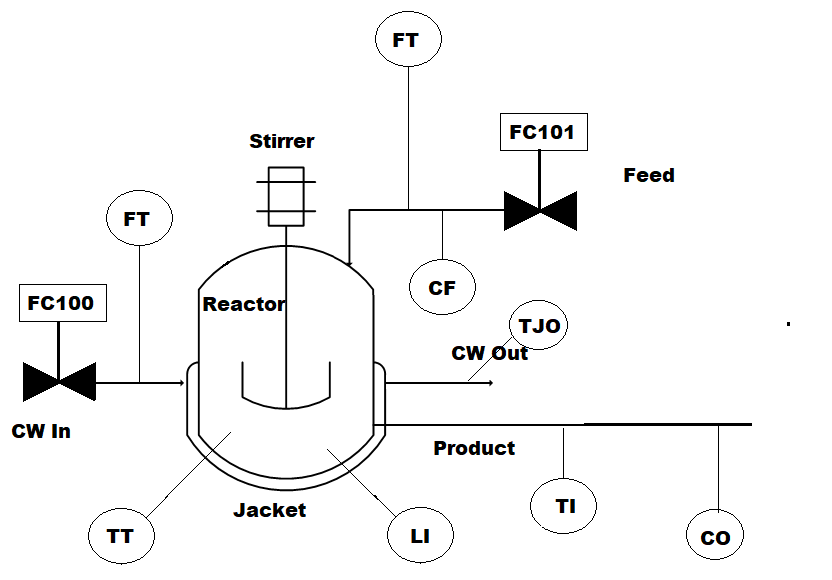
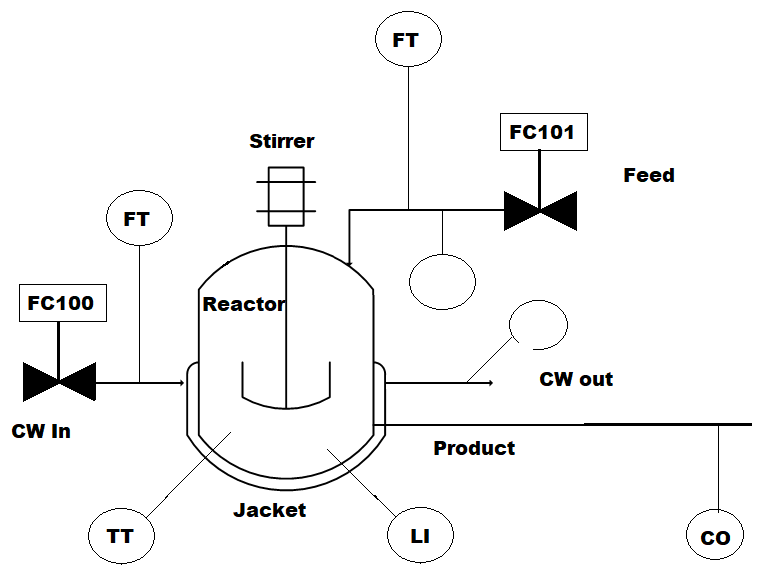
added buttons for sensors, added help dropdown, minor commenting

diff --git a/tkinter_gui.py b/tkinter_gui.py
@@ -12,26 +12,44 @@ from tkinter import ttk
 import multiprocessing as mp
 from matplotlib.figure import Figure
 from matplotlib.backends.backend_tkagg import FigureCanvasTkAgg, NavigationToolbar2Tk
+import webbrowser
 
-df = pd.DataFrame(columns=['flow101', 'flow100', 'cooling_temp', 'reactor_temp', 'feed_temp', 'exit_temp', 'level', 'exit_composition', 'feed_composition'])
-
+# Setting up dataframes for simulation
+simulation_data = pd.DataFrame(columns=['flow101', 'flow100', 'cooling_temp', 'reactor_temp', 'feed_temp', 'exit_temp', 'level', 'exit_composition', 'feed_composition'])
 history_df = pd.DataFrame(columns=['time', 'bulk_a_comp', 'reactor_temp', 'jacket_temp_out'])
 
-# Create tkinter window
+
+
+
+# Base GUI Tkinter Setup
+# TODO: Reorganize this into a application that is initialized on startup
 window = tk.Tk()
-# window.geometry("800x700")
 window.resizable(False, False)
 
+# TODO: Add a splash/startup screen for setting initial parameters as well as loading older simulations or settings.
+
+# Creates the Taskbar at the top of the simulation window
 taskbar = tk.Frame(window, height=40)
 taskbar.grid(sticky="w")
 
+# Settings a boolean that controls the dynamic simulation
+# TODO: Reorganize simulation runs into classes that have the parameters a properties
 stopped = True
+
 def stop_simulation():
+    """
+    This function stops the simulation of the CSTR in dynamic mode.
+    :return:
+    """
     global stopped
     stopped = True
     print("Simulation Stopped")
 
 def start_timer():
+    """
+    This function starts the simulation of the CSTR in dynamic mode. It also resets the time.
+    :return:
+    """
     global stopped
     stopped = False
 
@@ -39,18 +57,31 @@ def start_timer():
     run_simulation()
 
 def save_as():
+    """
+    This function saves the simulation data to a CSV file.
+    :return:
+    """
     global history_df
     filename = filedialog.asksaveasfilename(defaultextension=".csv")
     if filename:
         history_df.to_csv(filename, index=False)
 
 def show_menu(event):
+    """
+    This function shows the file menu when the file button is clicked.
+    :param event:
+    :return:
+    """
     file_menu.post(event.x_root, event.y_root)
 
 file_menu = tk.Menu(window, tearoff=0)
 file_menu.add_command(label="Save As", command=save_as)
 
 def open_disturbances_window():
+    """
+    This function opens the disturbances window.
+    :return:
+    """
     disturbances_window = tk.Toplevel(window)
     disturbances_window.title("Disturbances")
     disturbances_window.geometry("400x400")
@@ -58,8 +89,23 @@ def open_disturbances_window():
 
 file_menu.add_command(label="Disturbances", command=open_disturbances_window)
 
+def open_github():
+    webbrowser.open('https://github.com/pvalle6/CSTR')
+
+def open_linkedin():
+    webbrowser.open('https://www.linkedin.com/in/peter-v-334609211')
+
+def open_pse():
+    webbrowser.open('https://pse.che.lsu.edu/')
 def run_simulation():
+    """
+    This function runs the simulation of the CSTR in dynamic mode.
+
+    :return:
+    """
     global history_df
+    global simulation_data
+
     start_time = time.time()
     time_now = update_time()
     # history_df = pd.DataFrame(columns=['time', 'bulk_a_comp', 'reactor_temp', 'jacket_temp_out'])
@@ -80,8 +126,14 @@ def run_simulation():
                                          history_df['jacket_temp_out'].iloc[-1]], args=(feed_flow, jack_feed_flow))
         history_df = pd.concat([history_df, pd.DataFrame(
             {"time": time_now, 'bulk_a_comp': sol.y[0], "reactor_temp": sol.y[1], "jacket_temp_out": sol.y[2]})])
+
+        simulation_data = pd.concat([simulation_data, pd.DataFrame(
+            {"flow101": flow101_indicator.get(), "flow100": flow100_indicator.get(), "cooling_temp": cw_temp_indicator.get(),
+             "reactor_temp": reactor_temp_indicator.get(), "feed_temp": feed_temp_indicator.get(), "exit_temp": exit_temp_indicator.get(),
+             "level": level_indicator.get(), "exit_composition": exit_comp_indicator.get(), "feed_composition": feed_comp_indicator.get()}, index=[0])])
+
         previous_time_step += 1
-        print(history_df.tail(1))
+        # print(history_df.tail(1))
 
         reactor_temp_indicator.set(str(round(sol.y[1][-1], 2)) + " K")
         cool_temp_out_indicator.set(str(round(sol.y[2][-1], 2)) + " K")
@@ -92,6 +144,10 @@ def run_simulation():
             break
 
 def update_time():
+    """
+    This function updates the time in the GUI.
+    :return:
+    """
     elapsed_time = str(int(time.time() - start_time))  # Get the number of seconds since the start
     clock = "Time Elapsed: " + elapsed_time + " seconds"
     time_var.set(clock)  # Update the time_var with the new time
@@ -100,9 +156,11 @@ def update_time():
 
     return elapsed_time
 
-
 def open_f101_valve():
-
+    """
+    This function opens the FC101 Valve Control Window.
+    :return:
+    """
     def set_flow_rate():
         global feed_flow
         flow_rate = fc101_flow_entry.get()
@@ -128,7 +186,10 @@ def open_f101_valve():
     fc101_set_button.grid(row=1, column=0, columnspan=2)
 
 def open_f100_valve():
-
+    """
+    This function opens the FC100 Valve Control Window.
+    :return:
+    """
     def set_flow_rate():
         global jack_feed_flow
         flow_rate = fc100_flow_entry.get()
@@ -154,6 +215,7 @@ def open_f100_valve():
     fc100_set_button.grid(row=1, column=0, columnspan=2)
 
 
+# Here is many of the buttons are initialized and placed on the taskbar
 file_button = tk.Button(taskbar, text="File", width=8, height=2, bg="white", fg="black", font="Arial 12 bold",)
 file_button.grid(row=0, column=0, sticky="w")
 
@@ -176,35 +238,36 @@ stop_button.grid(row=0, column=3, sticky="w")
 help_button = tk.Button(taskbar, text="Help", width=8, height=2, bg="white", fg="black", font="Arial 12 bold")
 help_button.grid(row=0, column=4, sticky="w")
 
+help_menu = tk.Menu(window, tearoff=0)
+help_menu.add_command(label="GitHub", command=open_github)
+help_menu.add_command(label="Linkedin", command=open_linkedin)
+help_menu.add_command(label="PSE", command=open_pse)
 
+def show_help_menu(event):
+    help_menu.post(event.x_root, event.y_root)
+
+help_button.bind("<Button-1>", show_help_menu)
 # title = tk.Label(taskbar, text="CSTR Simulation", font="Arial 16 bold", fg="black")
 # title.grid(row=1)
 
+# Here is where the Process Simulation Window is initialized
 frame = tk.Frame(window)
 frame.grid()
-
+# Setting up GUI Images
+circle_image = tk.PhotoImage(file="reactor_image/circle.png")
+img = Image.open("reactor_image/test_2.png")
+photo = ImageTk.PhotoImage(img)
+diagram = tk.Label(frame, image=photo)
+diagram.grid()
 start_time = time.time()  # Get the time at the start of the program
-
 time_var = tk.StringVar()  # Create a StringVar to hold the time
-
-# Create a Label to display the time
 time_label = tk.Label(taskbar, textvariable=time_var)
 time_label.grid(row=0,column=5)  # Adjust the position as needed
 
-
-
-# Setting up the Control Interface
-img = Image.open("reactor_image/test_2.png")
-
-photo = ImageTk.PhotoImage(img)
-
-diagram = tk.Label(frame, image=photo)
-diagram.grid()
-
+# Setting up the Control Interface for the CSTR
 fc100_button = tk.Button(frame, text="FC100", width=8, height=2, bg="white", fg="black", font="Arial 12 bold",
                     relief="raised", borderwidth=2, command=open_f100_valve)
 fc100_button.place(x=20, y=285)
-
 fc101_button = tk.Button(frame, text="FC101", width=8, height=2, bg="white", fg="black", font="Arial 12 bold",
                     relief="raised", borderwidth=2, command=open_f101_valve)
 fc101_button.place(x=500, y=115)
@@ -212,6 +275,55 @@ fc101_button.place(x=500, y=115)
 # fc102_button = tk.Button(frame, text="FC102", width=8, height=2, bg="white", fg="black", font="Arial 12 bold",
 #                     relief="raised", borderwidth=2)
 # fc102_button.place(x=592, y=325)
+
+# Here is where many of the sensor display and GUI elements are initialized
+def on_feed_comp_sensor(x):
+    print("Opening Feed Composition Sensor Window")
+
+feed_c_button = tk.Button(frame, image=circle_image, text="FC", compound="center", bg="white",
+                          fg="black", font="Arial 12 bold", border=0, relief="raised")
+feed_c_button.config(command=lambda: on_feed_comp_sensor(1))
+feed_c_button.place(x=410, y=255)
+
+def on_feed_temp_sensor(x):
+    print("Opening Feed Temperature Sensor Window")
+
+feed_t_button = tk.Button(frame, image=circle_image, text="FT", compound="center", bg="white",
+                          fg="black", font="Arial 12 bold", border=0, relief="raised")
+feed_t_button.config(command=lambda: on_feed_temp_sensor(1))
+feed_t_button.place(x=375, y=12)
+
+def on_coolant_temp_sensor(x):
+    print("Opening Coolant Temperature Sensor Window")
+
+cool_t_button = tk.Button(frame, image=circle_image, text="CT", compound="center", bg="white",
+                          fg="black", font="Arial 12 bold", border=0, relief="raised")
+cool_t_button.config(command=lambda: on_coolant_temp_sensor(1))
+cool_t_button.place(x=105, y=192)
+
+def on_reactor_temp_sensor(x):
+    print("Opening Reactor Temperature Sensor Window")
+
+reactor_t_button = tk.Button(frame, image=circle_image, text="RT", compound="center", bg="white",
+                          fg="black", font="Arial 12 bold", border=0, relief="raised")
+reactor_t_button.config(command=lambda: on_reactor_temp_sensor(1))
+reactor_t_button.place(x=90, y=510)
+
+def on_jacket_temp_sensor(x):
+    print("Opening Jacket Temperature Sensor Window")
+
+jacket_t_button = tk.Button(frame, image=circle_image, text="TC Out", compound="center", bg="white",
+                          fg="black", font="Arial 12 bold", border=0, relief="raised")
+jacket_t_button.config(command=lambda: on_jacket_temp_sensor(1))
+jacket_t_button.place(x=505, y=300)
+
+def on_exit_comp_sensor(x):
+    print("Opening Exit Composition Sensor Window")
+
+exit_c_button = tk.Button(frame, image=circle_image, text="Cout", compound="center", bg="white",
+                          fg="black", font="Arial 12 bold", border=0, relief="raised")
+exit_c_button.config(command=lambda: on_exit_comp_sensor(1))
+exit_c_button.place(x=680, y=510)
 
 flow100_indicator = tk.StringVar()
 flow100_indicator.set("0")
@@ -231,12 +343,12 @@ cooling_temp_label.place(x=180, y=210)
 reactor_temp_indicator = tk.StringVar()
 reactor_temp_indicator.set("0")
 reactor_temp_label = tk.Label(frame, textvariable=reactor_temp_indicator, font="Arial 12 bold")
-reactor_temp_label.place(x=70, y=500)
+reactor_temp_label.place(x=70, y=487)
 
 feed_temp_indicator = tk.StringVar()
 feed_temp_indicator.set("0")
 feed_temp_label = tk.Label(frame, textvariable=feed_temp_indicator, font="Arial 12 bold")
-feed_temp_label.place(x=450, y=20)
+feed_temp_label.place(x=460, y=20)
 
 exit_temp_indicator = tk.StringVar()
 exit_temp_indicator.set("0")
@@ -251,7 +363,7 @@ level_label.place(x=450, y=500)
 exit_comp_indicator = tk.StringVar()
 exit_comp_indicator.set("0")
 exit_composition_label = tk.Label(frame, textvariable=exit_comp_indicator, font="Arial 12 bold")
-exit_composition_label.place(x=670, y=500)
+exit_composition_label.place(x=670, y=470)
 
 feed_comp_indicator = tk.StringVar()
 feed_comp_indicator.set("0")
@@ -262,11 +374,6 @@ cool_temp_out_indicator = tk.StringVar()
 cool_temp_out_indicator.set("0")
 cool_temp_out_label = tk.Label(frame, textvariable=cool_temp_out_indicator, font="Arial 12 bold")
 cool_temp_out_label.place(x=550, y=270)
-
-# Tank Specifications
-# tank_diameter = 0.5 # m
-# tank_height = 1 # m
-# tank_volume = math.pi * (tank_diameter/2)**2 * tank_height
 
 # Feed Specifications
 feed_comp_a = 0 # mol / m^3
@@ -321,13 +428,13 @@ def system_of_equations(t,y, feed_flow, jack_feed_flow):
 
     return [dCadt, dTdt, dTjdt]
 
+# Setting up the initial values for the simulation
 flow101_indicator.set(0.1)
 flow100_indicator.set(0.1)
 cw_temp_indicator.set(300)
 feed_temp_indicator.set(300)
 feed_comp_indicator.set(0.5)
 level_indicator.set("CONSTANT")
-
 
 while(True):
     window.update()
